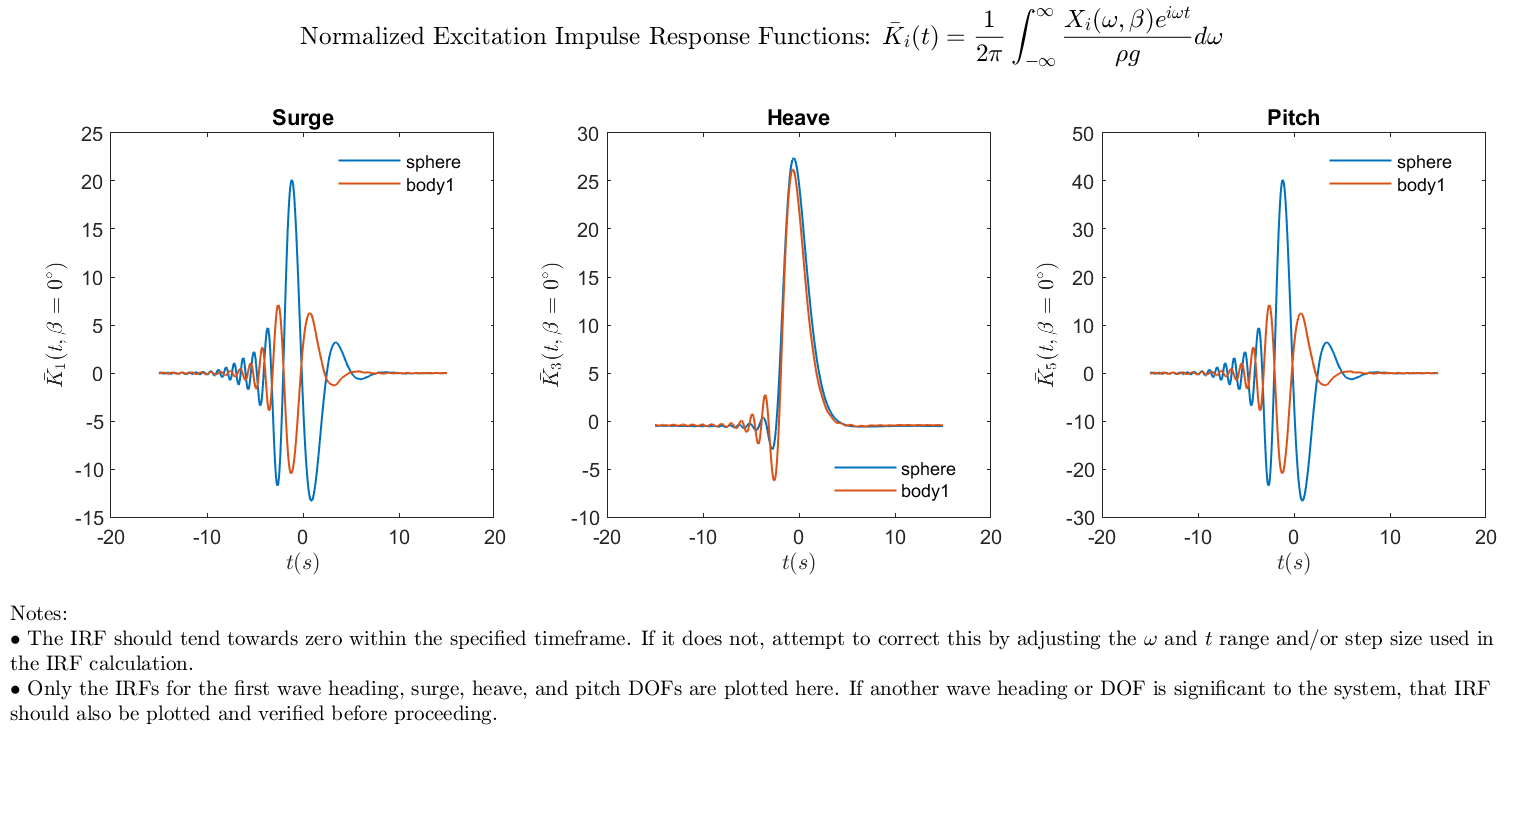
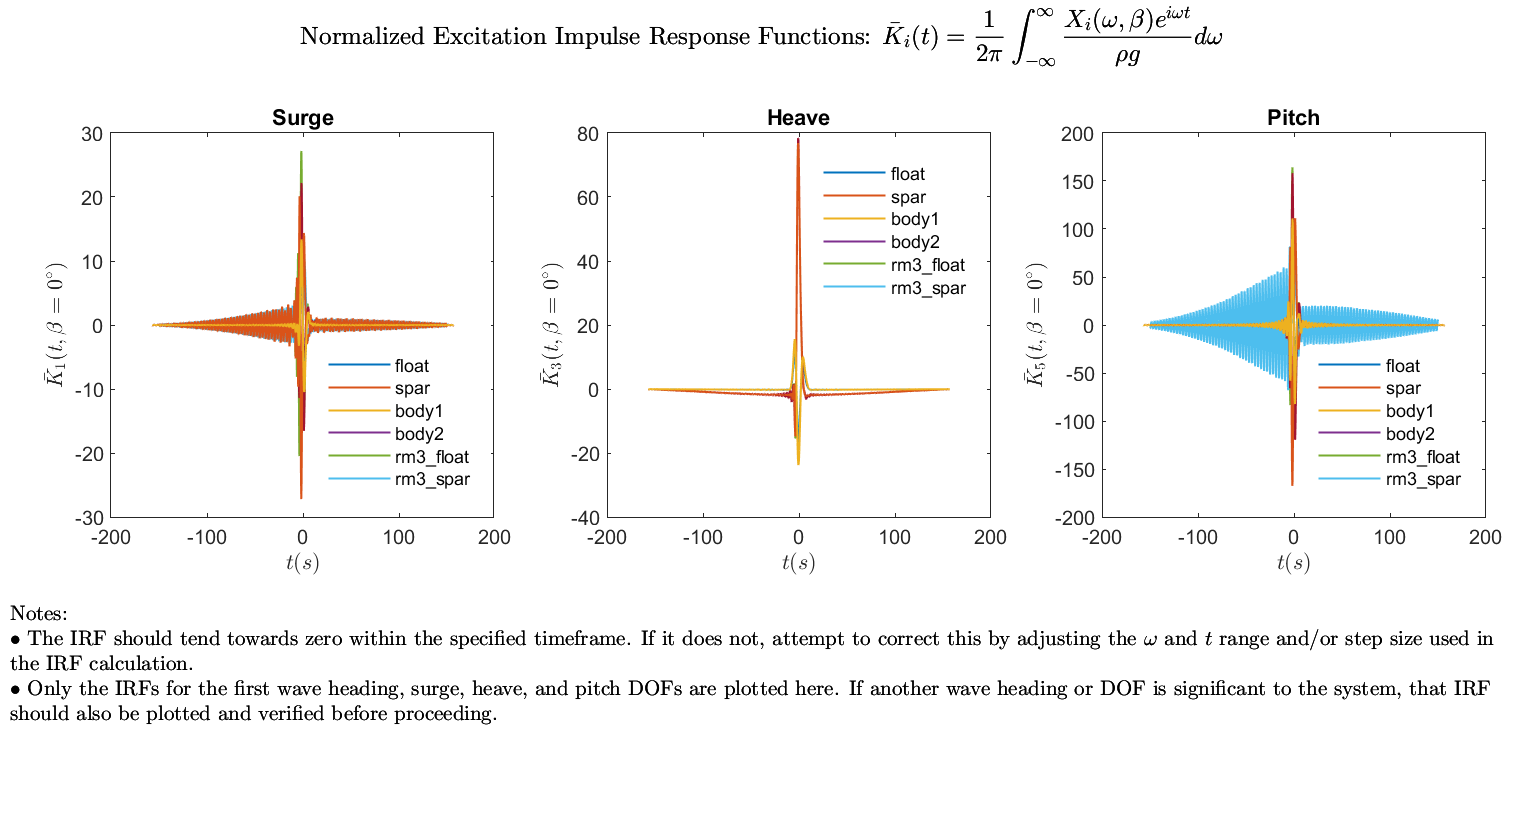
updaing exc irf plot for mult bemio results

diff --git a/source/functions/BEMIO/plotExcitationIRF.m b/source/functions/BEMIO/plotExcitationIRF.m
@@ -16,11 +16,9 @@ function plotExcitationIRF(hydro,varargin)
     for i = 1:hydro.Nb
         m = hydro.dof(i);
         Y(1,i,:) = squeeze(hydro.ex_K(a+1,B,:));
-        Legends{1,i} = [hydro.body{i}];
         Y(2,i,:) = squeeze(hydro.ex_K(a+3,B,:));
-        Legends{2,i} = [hydro.body{i}];
         Y(3,i,:) = squeeze(hydro.ex_K(a+5,B,:));
-        Legends{3,i} = [hydro.body{i}];
+        Legends{i,1} = [hydro.body{i}];
         a = a + m;
     end
     
@@ -36,25 +34,26 @@ function plotExcitationIRF(hydro,varargin)
         FormatPlot(Fig6,Title,Subtitles,XLables,YLables,X,Y,Legends,Notes)
     end
     
-    if length(varargin)==1
-        try varargin{1}=varargin{1}{1}; end
-        X1 = varargin{1}.ex_t;
-        Nb = varargin{1}.Nb;
-        a = 0;
-        for i = 1:Nb
-            m = varargin{1}.dof(i);
-            Y1(1,i,:) = squeeze(varargin{1}.ex_K(a+1,B,:));
-            Legends{1,i+Nb} = [varargin{1}.body{i}];
-            Y1(2,i,:) = squeeze(varargin{1}.ex_K(a+3,B,:));
-            Legends{2,i+Nb} = [varargin{1}.body{i}];
-            Y1(3,i,:) = squeeze(varargin{1}.ex_K(a+5,B,:));
-            Legends{3,i+Nb} = [varargin{1}.body{i}];
-            a = a + m;
-        end
+    numHydro = length(varargin);
+    if numHydro>=1
+        for ii=1:numHydro
+            numBod = varargin{ii}.Nb;
+            tmp1 = strcat('X',num2str(ii));
+            X1.(tmp1) = varargin{ii}.ex_t;
+            tmp2 = strcat('Y',num2str(ii));
+            a = 0;
+            for i = 1:numBod
+                m = varargin{ii}.dof(i);
+                Y1.(tmp2)(1,i,:) = squeeze(varargin{ii}.ex_K(a+1,B,:));
+                Y1.(tmp2)(2,i,:) = squeeze(varargin{ii}.ex_K(a+3,B,:));
+                Y1.(tmp2)(3,i,:) = squeeze(varargin{ii}.ex_K(a+5,B,:));
+                Legends{i,1+ii} = [varargin{ii}.body{i}];
+                a = a + m;
+            end
         FormatPlot(Fig6,Title,Subtitles,XLables,YLables,X,Y,Legends,Notes,X1,Y1)  
     end    
     
     % waitbar(6/6);
-saveas(Fig6,'Excitation_IRFs.png');
+    saveas(Fig6,'Excitation_IRFs.png');
 
 end

diff --git a/examples/BEMIO/compareBEM.m b/examples/BEMIO/compareBEM.m
@@ -1,5 +1,5 @@
-% clear all;
-clc; close all
+clear all;clc; close all
+
 %% From hydro structure (before h5)
 
 %% Sphere (1 body)
@@ -25,7 +25,7 @@ clc; close all
 % CAP_hydro = Excitation_IRF(CAP_hydro,15,[],[],[],[]);
 
 % load('wamit_aqwa_sphere.mat')
-% load('wamit_aqwa_cap_sphere.mat')
+load('wamit_aqwa_cap_sphere.mat')
 
 %% RM3 (2 bodies)
 
@@ -90,19 +90,19 @@ plotRadiationIRF(WAMIT_hydro,AQWA_hydro,CAP_hydro)
 % plotExcitationMagnitude(WAMIT_hydro)
 % plotExcitationMagnitude(AQWA_hydro)
 % plotExcitationMagnitude(WAMIT_hydro,AQWA_hydro)
-plotExcitationMagnitude(CAP_hydro)
+% plotExcitationMagnitude(CAP_hydro)
 plotExcitationMagnitude(WAMIT_hydro,AQWA_hydro,CAP_hydro)
 % 
 % plotExcitationPhase(WAMIT_hydro)
 % plotExcitationPhase(AQWA_hydro)
 % plotExcitationPhase(WAMIT_hydro,AQWA_hydro)
-plotExcitationPhase(CAP_hydro)
+% plotExcitationPhase(CAP_hydro)
 plotExcitationPhase(WAMIT_hydro,AQWA_hydro,CAP_hydro)
 % 
 % plotExcitationIRF(WAMIT_hydro)
 % plotExcitationIRF(AQWA_hydro)
 % plotExcitationIRF(WAMIT_hydro,AQWA_hydro)
-plotExcitationIRF(CAP_hydro)
+% plotExcitationIRF(CAP_hydro)
 plotExcitationIRF(WAMIT_hydro,AQWA_hydro,CAP_hydro)
 
 plotBEMIO(WAMIT_hydro,AQWA_hydro,CAP_hydro)
